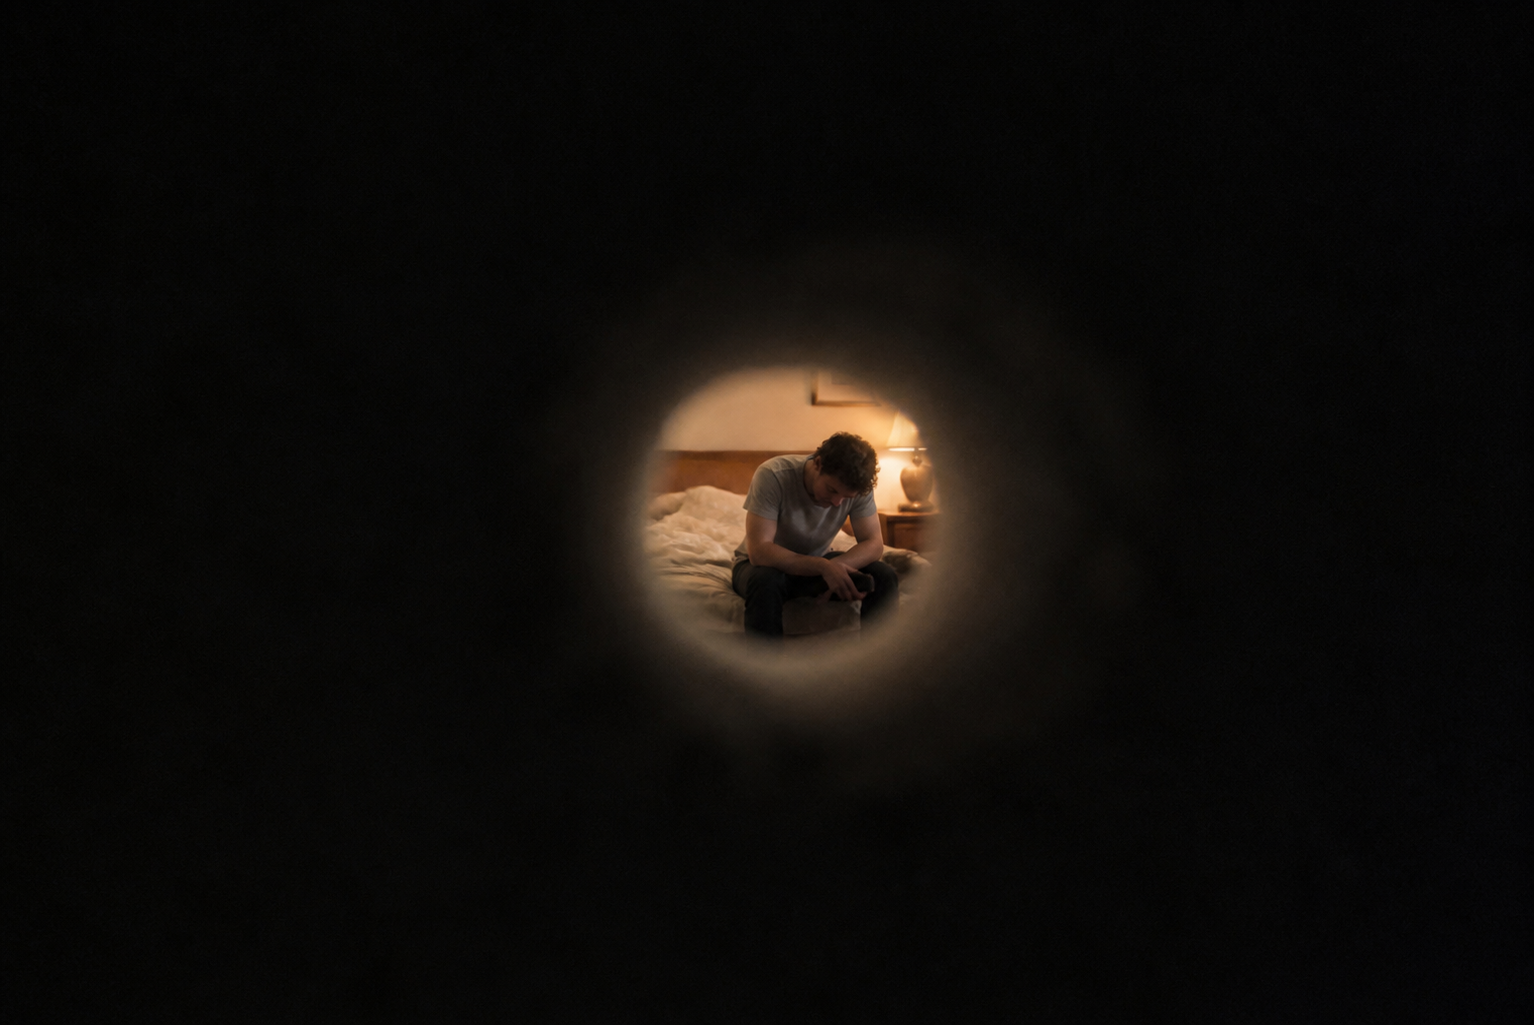
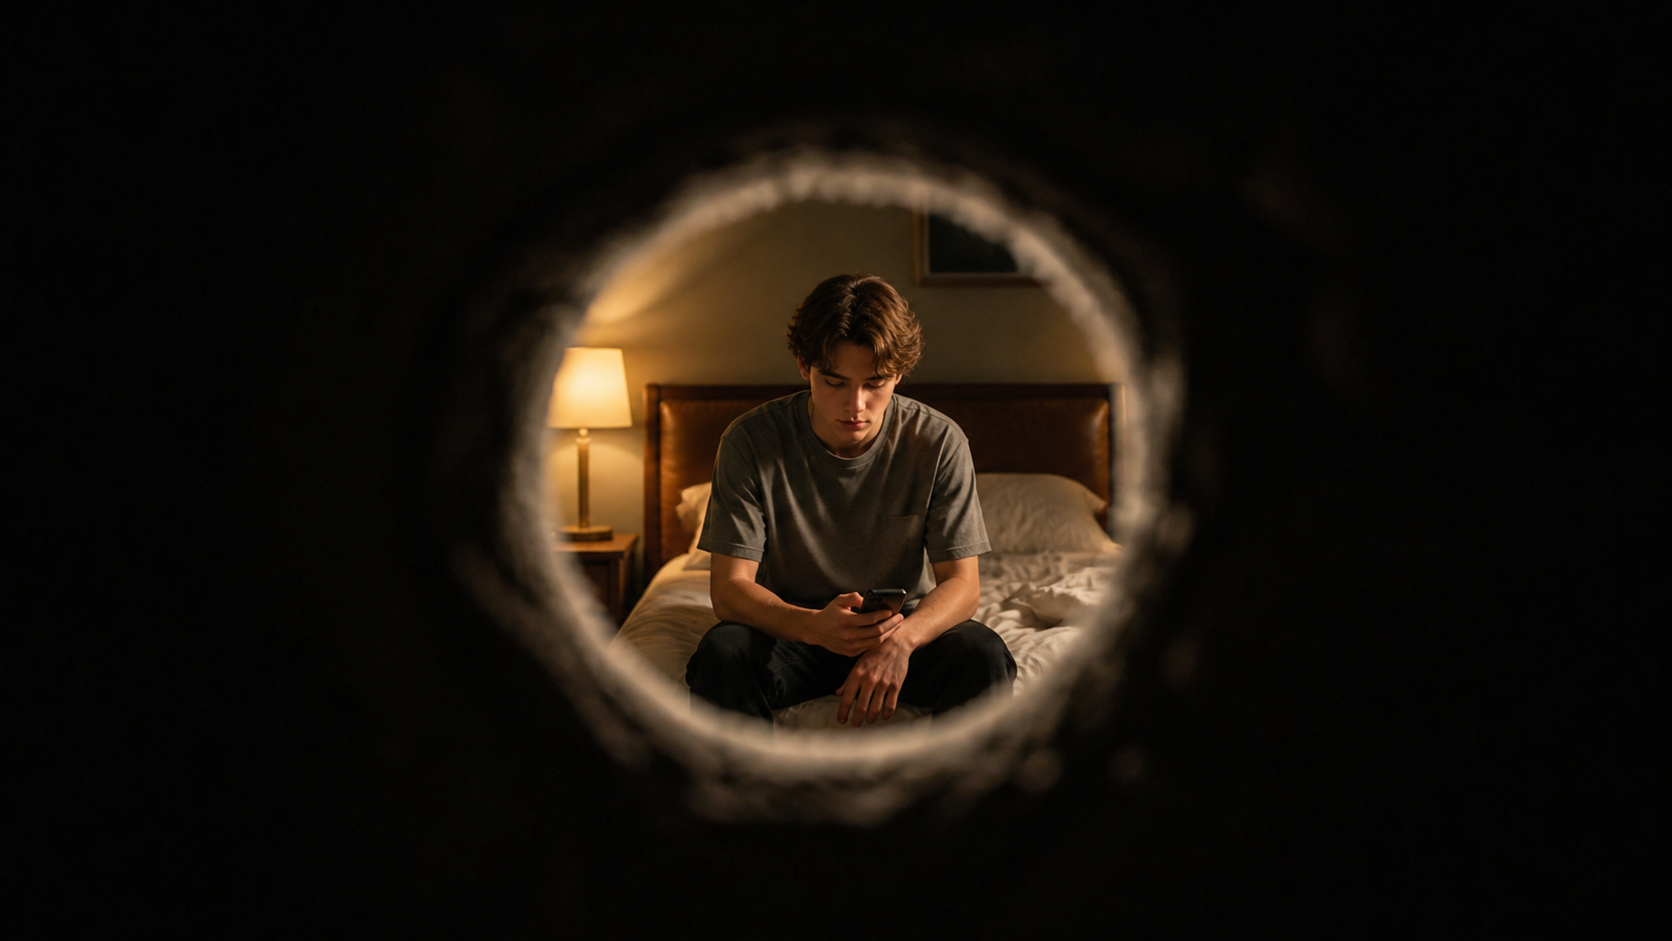
peep: new in-bed plate from the hug ref, new alone plate, breathing loop on the drill-now branch

Changed region(s): [[0.2757, 0.1541, 0.7353, 0.8937]]

diff --git a/index.html b/index.html
@@ -2805,6 +2805,7 @@ async function chapter2Start() {
     const im = new Image(); im.src = u;
   }
   voxLoad('drill');
+  voxLoad('breath');            // "现在就钻"那一支偷看时要用，先解码好
   sceneId++;
   hidePlate();
   walking = true;
@@ -2958,15 +2959,19 @@ async function peepBeat(h) {
   await callScene(inBed ? [
     {t: '周一晚上，灯是开着的——床头那一盏，暖的。', d: 5.0,
      f: () => showPlate(PLATE_PEEP2B)},
+    // 喘息是实录（audio/breath.mp3，跟床底那一段同一段素材）。这里隔着一堵墙和一个
+    // 四毫米的孔，所以音量压到 0.4、淡入给 2 秒——听得出是什么，但要贴着洞才听得清。
     {t: '被子推到了一边。床上有两个人，在做什么不用看第二眼。', d: 7.4,
-     f: () => { S.dread += 4; }},
+     f: () => { S.dread += 4; loopSfx('breath', true, {fade: 2.0, vol: 0.4}); }},
     {t: '他背对着这个洞，低着头，肩膀在动。他不知道墙上有个洞——他从来不知道。', d: 8.6},
     {t: '她的脸正对着你。', d: 4.2, f: () => blip('note')},
     {t: '不是往窗户看，不是往门看。她的眼睛落在墙上，落在离地三十厘米的那一个点上。', d: 9.0},
     {t: '她在笑。不是对他笑——她一直在看着这个洞，从什么时候开始的，你不知道。', d: 8.8,
      f: () => { S.dread += 3; }},
+    // "够了"这一下声音就收——之后是脚步声往洞这边来，那一段要干净
     {t: '她抬手在他背上拍了两下，像在说"够了"。然后她从床上下来了，'
-        + '脚步是往你这边来的。', d: 9.0},
+        + '脚步是往你这边来的。', d: 9.0,
+     f: () => loopSfx('breath', false, {fade: 1.4})},
     {t: '洞里的光被挡住了。', d: 4.4,
      f: () => { showPlate(PLATE_PEEPC); blip('sting'); S.dread += 6; }},
     {t: '那边贴着洞的，是一只眼睛。她还在笑。', d: 8.0},
@@ -2984,6 +2989,8 @@ async function peepBeat(h) {
      f: () => { showPlate(PLATE_PEEPC); blip('sting'); S.dread += 6; }},
     {t: '那边贴着洞的，是一只眼睛。她在笑。', d: 8.0},
   ]);
+  // 这一段被跳过/被下一段顶掉时，喘息不能留在那儿一直循环
+  loopSfx('breath', false, {fade: 0.8});
   peepRunning = false;
   await peepAfter();
 }
